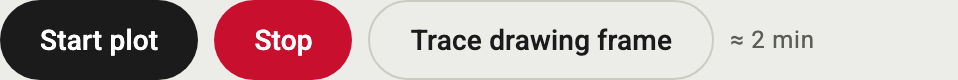
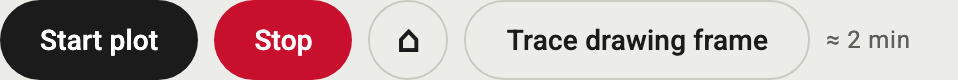
Run row: ⌂ after Stop goes to the origin, for example after Plot this path

diff --git a/extensions/idraw_web.html b/extensions/idraw_web.html
@@ -398,7 +398,7 @@ function renderPanel() {
         ${st.origin_set ? '' : '<div class="msg">Origin not set. Go to step 2, or plot from the current position.</div>'}${outsideMsg()}`)
       + grp('Layers', `<label class="row"><input type="checkbox" id="hiding" ${S.hiding ? 'checked' : ''}> Hide lines behind filled shapes</label>
         <table class="layers"><tr><th>Plot</th><th>Pause before</th><th>Layer · paths</th></tr>${rows || '<tr><td colspan="3">No layers. Open an SVG with paths.</td></tr>'}</table>`)
-      + grp('Run', `<div class="row"><button class="btn filled" data-cmd="plot">Start plot</button><button class="btn danger" data-cmd="stop">Stop</button><button class="btn outlined" data-cmd="frame" data-args='{"kind":"drawing"}'>Trace drawing frame</button>${estimateHtml()}</div>
+      + grp('Run', `<div class="row"><button class="btn filled" data-cmd="plot">Start plot</button><button class="btn danger" data-cmd="stop">Stop</button><button class="btn icon-btn outlined" data-cmd="goto" data-args='{"x":0,"y":0}' aria-label="Go to origin" title="Go to origin">⌂</button><button class="btn outlined" data-cmd="frame" data-args='{"kind":"drawing"}'>Trace drawing frame</button>${estimateHtml()}</div>
         ${p ? `<div class="progress"><i id="pbar" style="width:${pct}%"></i></div><div class="mono body-small" id="ptxt">${progressText()}</div>` : ''}
         ${S.strokes.length && st.status !== 'plotting' && st.status !== 'paused' ? `<input type="range" id="resumeAt" min="0" max="${S.strokes.length - 1}" value="${pickIdx()}" aria-label="Path" title="Click a path on the board or drag the slider">
         <div class="row"><button class="btn icon-btn outlined" data-step="-1" aria-label="Previous path" title="Previous path; hold to run back">‹</button><input id="pickN" class="pickn mono" inputmode="numeric" value="${pickIdx() + 1}" aria-label="Path number" title="Path 1 to ${S.strokes.length}; Enter picks it"><button class="btn icon-btn outlined" data-step="1" aria-label="Next path" title="Next path; hold to run on">›</button><button class="btn outlined" id="resumeBtn" title="Plot from this path to the end; the paths before count as done">Resume from ${pickIdx() + 1}</button><button class="btn outlined" id="onlyBtn" title="Plot just this path, for a line the pen skipped">Plot this path</button></div>` : ''}`);

diff --git a/extensions/test_idraw_e2e.py b/extensions/test_idraw_e2e.py
@@ -536,6 +536,10 @@ def check_path_picker(page):
     assert page.evaluate("() => S.progress.i") == 6           # stopped after path 6, not at the end
     expect(page.locator("#strokes path.sel")).to_have_count(0)
     expect(page.locator("#pickN")).to_have_value("7")
+    assert page.evaluate("() => Math.hypot(S.state.x, S.state.y)") > 1   # stays at the end of the path
+    click_cmd(page, "#panel button[aria-label='Go to origin']")  # ⌂ after Stop goes to the origin
+    wait_idle(page)
+    assert page.evaluate("() => Math.hypot(S.state.x, S.state.y)") < 1e-6
 
 
 def check_path_stepping(page):

diff --git a/MANUAL.md b/MANUAL.md
@@ -107,9 +107,9 @@ The dialog before a paused layer:
 
 Hide lines behind filled shapes drops the parts of lines that lie behind a filled shape drawn later in the document, as if the shape covered them. The drawing is loaded again when the box is toggled.
 
-Start plot starts. If paths leave the sheet or the machine travel, they are amber on the board, the step says how many, and Start plot asks before plotting anyway. Stop (or Esc) stops after the current line and raises the pen. Trace drawing frame moves around the drawing with the pen up.
+Start plot starts. If paths leave the sheet or the machine travel, they are amber on the board, the step says how many, and Start plot asks before plotting anyway. Stop (or Esc) stops after the current line and raises the pen. ⌂ moves the head to the origin. Trace drawing frame moves around the drawing with the pen up.
 
-<img src="docs/ui/run.png" alt="Run row: Start plot, Stop, Trace drawing frame and the estimate of about 2 minutes" width="479">
+<img src="docs/ui/run.png" alt="Run row: Start plot, Stop, the origin button ⌂, Trace drawing frame and the estimate of about 2 minutes" width="479">
 
 The notice in the step and the question of Start plot when paths leave the sheet:
 
@@ -123,7 +123,7 @@ Next to the buttons, ≈ shows how long the plot will take: the drawn length at 
 
 Once a plot has run, a bar under the buttons shows the path number, the share of the drawn length that is done, and the estimated time left. Travel moves are not counted, so both run a little ahead on drawings with many long jumps.
 
-Below them you pick a path: drag the slider across the full width, click a path on the board (the pointer turns into a crosshair over a path; with a finger, within about 20 px of the line), type its number in the field and press Enter, or step with ‹ and ›. One click on an arrow moves one path; hold it and it runs on, about 20 paths a second. The picked path is drawn thick, the paths before it count as done. "Resume from N" next to the field plots from there to the end, for example after a stop or when the pen ran dry. "Plot this path" plots just that one path and leaves out the layer pauses, for example to redraw a line the pen skipped; the head stays at the end of the path instead of going back to the origin. After a stop the picker stands on the path where the plot stopped.
+Below them you pick a path: drag the slider across the full width, click a path on the board (the pointer turns into a crosshair over a path; with a finger, within about 20 px of the line), type its number in the field and press Enter, or step with ‹ and ›. One click on an arrow moves one path; hold it and it runs on, about 20 paths a second. The picked path is drawn thick, the paths before it count as done. "Resume from N" next to the field plots from there to the end, for example after a stop or when the pen ran dry. "Plot this path" plots just that one path and leaves out the layer pauses, for example to redraw a line the pen skipped; the head stays at the end of the path instead of going back to the origin. ⌂ next to Stop sends it to the origin. After a stop the picker stands on the path where the plot stopped.
 
 <img src="docs/ui/path-number-tooltip.png" alt="Path picker after a stop: slider, arrows around the path number 56, Resume from path 56, Plot only, and the hover text Path 1 to 185; Enter picks it" width="489">
 

diff --git a/TESTING.md b/TESTING.md
@@ -30,7 +30,7 @@ Browser, `python3 test_idraw_e2e.py`: starts the server with the simulator (40×
 | travel_trace_during_plot | a plot clears the manual trace, leaves dotted travel segments only, the next plot starts with an empty trace |
 | model_dropdown | Untested models carry the label and the hint; after a reconnect an AxiDraw model sends EBB commands, no G-code. |
 | resume_from_path | After a stop the Run group shows a slider and Resume from N; the plot continues from there and finishes. |
-| path_picker | Without a stop first the Run group offers the picker at path 1; over a path the board shows the crosshair, a click picks it (thick, the paths before done), a click on the empty mat keeps the pick and drops the crosshair, Plot this path draws just that path and the picker moves on to the next. |
+| path_picker | Without a stop first the Run group offers the picker at path 1; over a path the board shows the crosshair, a click picks it (thick, the paths before done), a click on the empty mat keeps the pick and drops the crosshair, Plot this path draws just that path, the head stays at its end and the picker moves on to the next; ⌂ next to Stop goes to the origin. |
 | path_stepping | The number field picks a path (Enter; beyond the last means the last), ‹ and › step one path per click and stop at the first, held down they run on and stop when released; Resume from N follows. |
 | large_drawing | Stress test: the engraving with 31'550 paths from tests/ loads and is drawn within 10 s, a click on the board picks a path; no plot (the 40× simulator outruns the page). |
 | plot_estimate | The time estimate next to Trace drawing frame equals `idraw_core.estimate` on the same paths and shows it with its parts in the hover text; a measured time factor for the model scales it. |
